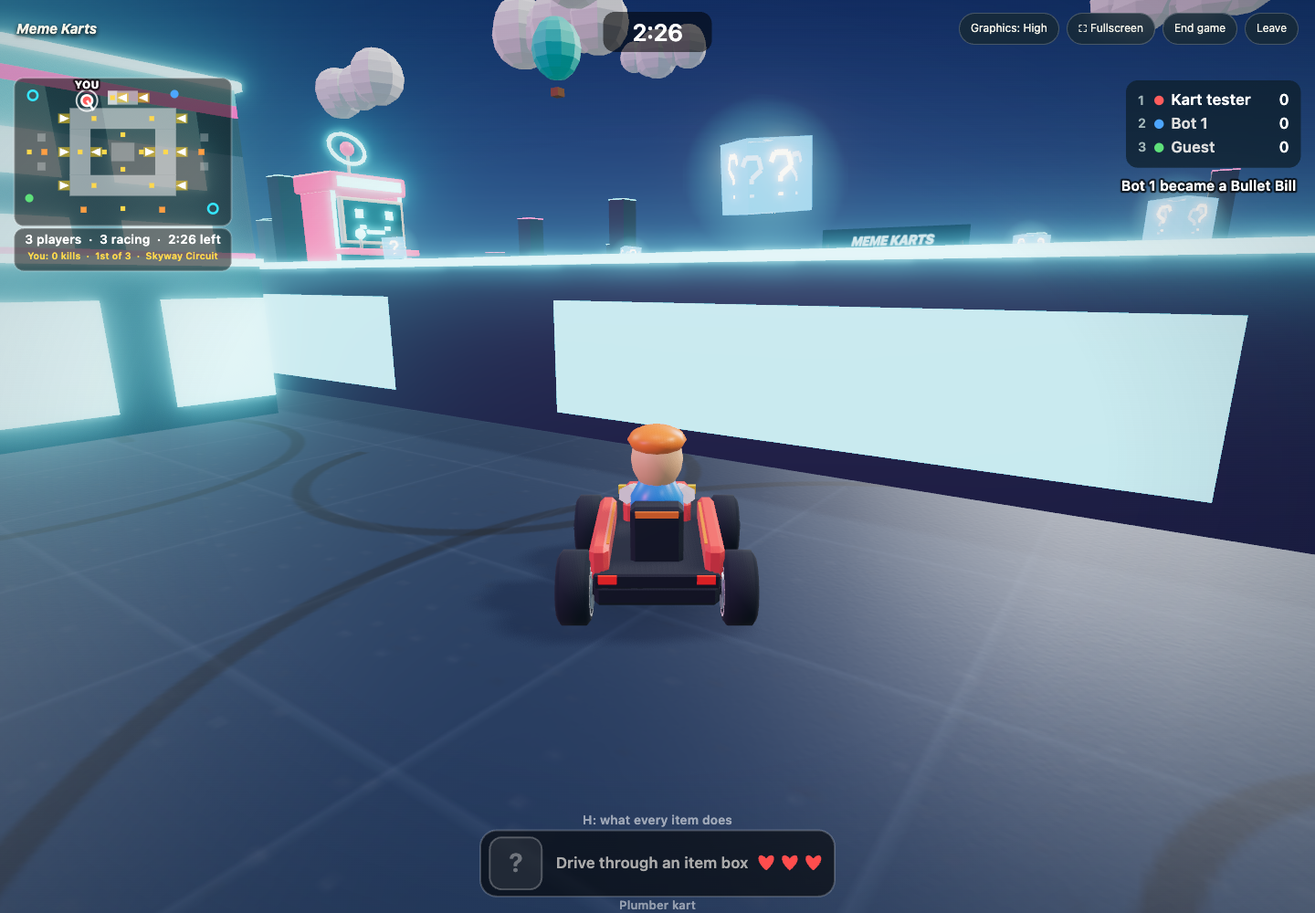
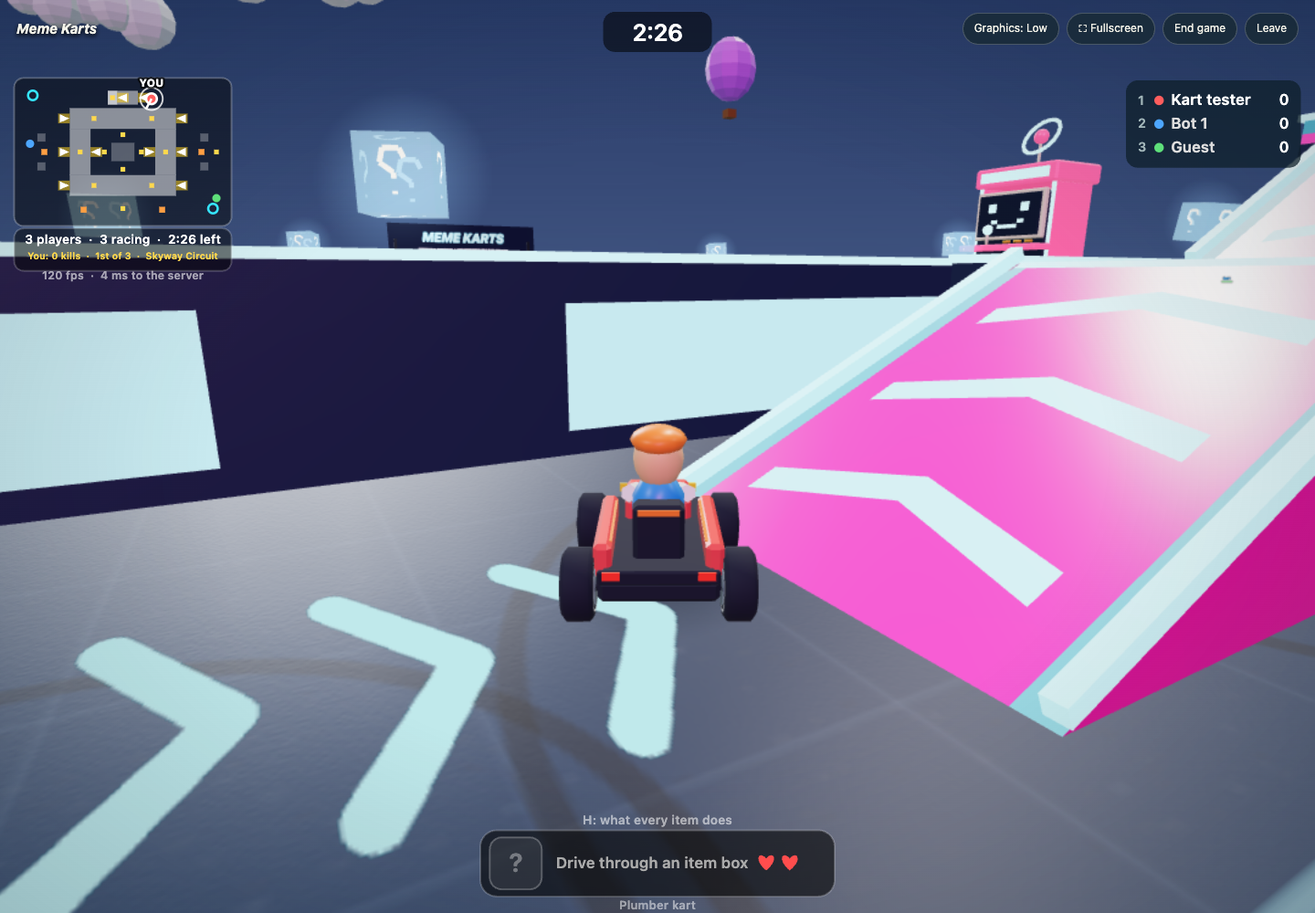
Karts server: tick counter and finer numbers in snapshots; shared terrain physics (Codex)
Snapshots carry tk (the server tick) for the clients' interpolation clock,
headings to 3 decimals and positions to 1, so turns no longer step by
half a degree. Codex moved the terrain collision into
public/memekarts-physics.js (stepGrounded, collideTerrain, fixed-size
substeps) with tools/kart-driving-check.js covering identical paths at
any frame rate, reverse steering, slow-frame walls and every ramp.

diff --git a/public/games/memekarts.js b/public/games/memekarts.js
@@ -1,5 +1,5 @@
 // Meme Karts client: 3D (Three.js) chase-cam renderer + 2D HUD drawn on the framework canvas on top.
-// The server is still a flat 900x600 top-down simulation; this file only changes how it LOOKS.
+// The server owns movement, collisions and height; local driving predicts the same shared physics.
 //
 // World mapping: game (x, y) -> world (X = x - OX, Y = up, Z = y - OZ). Heading a -> rotation.y = -a (models face +X).
 //
@@ -15,9 +15,11 @@ registerGame('memekarts', (G) => {
   // shows at once. Each server snapshot re-bases it: the server's state (with velocity) is replayed forward through the
   // keys you held since that snapshot was made (about half a round trip ago), then blended into the running prediction.
   // The server stays the authority; snapshots without velocity (an older server) switch prediction off entirely.
-  const PHYS = window.MEMEKARTS_PHYSICS; let myCtl = {}, ctlLog = [], rtt = 0.06, lastPing = -9, rttKnown = false, fpsAcc = 0, fpsN = 0, fpsShow = 0, pred = null, predMe = null; /* readout under the minimap: frames per second and the round trip */
+  const PHYS = window.MEMEKARTS_PHYSICS; let myCtl = {}, ctlLog = [], rtt = 0, lastPing = -9, rttKnown = false, fpsAcc = 0, fpsN = 0, fpsShow = 0, pred = null, predMe = null; /* readout under the minimap: frames per second and the round trip */
+  const pingSamples = [];
+  let predCorrection = null;
   const nowS = () => performance.now() / 1000;
-  window.__kartPred = () => (pred ? { x: pred.x, y: pred.y, a: pred.a } : null); /* test hook: tools read the predicted kart */
+  window.__kartPred = () => (pred ? { x: pred.x, y: pred.y, a: pred.a, el: pred.el, rtt } : null); /* test hook: tools read the predicted kart */
   // Everything drawn straight from snapshots is interpolated: the scene is shown INTERP_DELAY behind the newest snapshot,
   // gliding at a constant rate between the previous one and it, so a turn at 30 updates a second does not pulse.
   // (Easing toward each new snapshot instead jumped and slowed thirty times a second, which read as jerky turning.)
@@ -36,14 +38,28 @@ registerGame('memekarts', (G) => {
     if (al < 0) al = 0; return { x: pk.x + (k.x - pk.x) * al, y: pk.y + (k.y - pk.y) * al, a: lerpAngle(pk.a, k.a, al), el: (pk.el || 0) + ((k.el || 0) - (pk.el || 0)) * al }; }
   const ctlAt = (t) => { let c = {}; for (const e of ctlLog) { if (e.t <= t) c = e.ctl; else break; } return c; };
   const kartOpts = (me) => { const spd = (me.egg > 0 ? 0.5 : 1) * (me.mush ? 1.8 : me.bst ? 1.55 : 1) * (me.star ? 1.35 : 1) * (me.small ? 0.65 : 1) * (me.ink > 0 ? 0.92 : 1) * (me.mud ? (me.star || me.mush ? 0.8 : 0.5) : 1); return { maxF: 300 * spd, maxR: 150, accel: 420 * (me.mush || me.star || me.bst ? 1.8 : 1), turn: 3.2 }; };
-  function stepPred(p, h, me, o) { const px = p.x, py = p.y; PHYS.stepCar(p, h, o); PHYS.wallHit(p, 16, 0.4, OBST, MW, MH); if (window.MEMEKARTS_MAPS.surface(map, p.x, p.y) - (me.el || 0) > 10) { p.x = px; p.y = py; p.vx *= 0.5; p.vy *= 0.5; } } /* a deck wall or ramp side: stop, the server decides */
+  function stepPred(p, h, me, o) {
+    PHYS.stepGrounded(p, h, o, map, (x, y) => window.MEMEKARTS_MAPS.surface(map, x, y));
+  }
+  function correctPrediction(dt) {
+    if (!predCorrection || !pred) return;
+    const f = 1 - Math.exp(-12 * dt), px = pred.x, py = pred.y;
+    for (const key of ['x', 'y', 'a']) { pred[key] += predCorrection[key] * f; predCorrection[key] *= 1 - f; }
+    // Reconciliation must obey walls too, rather than blending a safe endpoint
+    // through a block or cutting diagonally across a raised deck's corner.
+    PHYS.wallHit(pred, 16, 0, OBST, MW, MH);
+    PHYS.collideTerrain(pred, px, py, 0, 0, (x, y) => window.MEMEKARTS_MAPS.surface(map, x, y));
+  }
   const NO_PRED = /[?&]nopred=1/.test(location.search); /* tests: draw your own kart from snapshots like everyone else */
   function rebase(me) { /* a snapshot arrived */
-    if (NO_PRED || !PHYS || !me || me.vx == null || me.dead || me.air > 0 || me.pit || me.aw || me.spin || (s.win && s.win !== G.me) || away) { pred = null; return; }
-    const now = nowS(), o = kartOpts(me), p = { x: me.x, y: me.y, a: me.a, vx: me.vx, vy: me.vy };
-    for (let t = now - Math.min(0.25, rtt / 2 + 0.017); t < now; t += 1 / 60) { p.ctl = ctlAt(t); stepPred(p, Math.min(1 / 60, now - t), me, o); }
-    if (pred && Math.hypot(pred.x - p.x, pred.y - p.y) < 40) { pred.x += (p.x - pred.x) * 0.25; pred.y += (p.y - pred.y) * 0.25; let da = p.a - pred.a; while (da > Math.PI) da -= 2 * Math.PI; while (da < -Math.PI) da += 2 * Math.PI; if (Math.abs(da) > 0.004) pred.a += da * 0.25; pred.vx = p.vx; pred.vy = p.vy; } /* tiny heading differences are rounding, not disagreement */ /* small disagreements (rounding, a nudge) are eased in */
-    else pred = p; /* a big one (a hit, a teleport): take the server's word */
+    if (NO_PRED || !PHYS?.stepGrounded || !me || me.vx == null || me.dead || me.air > 0 || me.pit || me.aw || me.spin || me.bill || (s.win && s.win !== G.me) || away) { pred = null; predCorrection = null; return; }
+    const now = nowS(), o = kartOpts(me), p = { x: me.x, y: me.y, a: me.a, vx: me.vx, vy: me.vy, el: me.el || 0 };
+    for (let t = now - Math.min(0.125, rtt / 2); t < now; t += 1 / 60) { p.ctl = ctlAt(t); stepPred(p, Math.min(1 / 60, now - t), me, o); }
+    if (pred && Math.hypot(pred.x - p.x, pred.y - p.y) < 40 && Math.abs(pred.el - p.el) < 12) {
+      const da = lerpAngle(pred.a, p.a, 1) - pred.a;
+      predCorrection = { x: p.x - pred.x, y: p.y - pred.y, a: Math.abs(da) > .004 ? da : 0 };
+      pred.vx = p.vx; pred.vy = p.vy;
+    } else { pred = p; predCorrection = null; } /* teleport, respawn or a large correction */
     predMe = me;
   }
   const HEARTS = 2; /* hearts per life, same as HEARTS in server/games/memekarts.js */
@@ -191,6 +207,7 @@ registerGame('memekarts', (G) => {
     // ---- Blender / GLB overrides ----
     const MODELS = {}; let assetsReady = false;
     fetch('/models/list').then((r) => r.json()).then((files) => {
+      files = files.filter(f => !/^fps_/i.test(f)); // Shooter arenas/figures are never used by this game.
       if (!files.length || !window.GLTFLoader) { assetsReady = true; return; }
       const loader = new window.GLTFLoader(); let left = files.length;
       const done = () => { if (--left <= 0) assetsReady = true; };
@@ -627,18 +644,32 @@ registerGame('memekarts', (G) => {
       });
     }
     const views = new Map();
-    window.__kartView = () => { const v = views.get(G.me); return v ? { x: v.x, y: v.y, a: v.a } : null; }; /* test hook: what is drawn for your kart */
+    window.__kartView = () => { const v = views.get(G.me); return v ? { x: v.x, y: v.y, a: v.a, el: v.el } : null; }; /* test hook: what is drawn for your kart */
     function updateKarts(dt) {
       const seen = new Set();
-      if (time - lastPing > 2 && G.socket && G.socket.emit) { lastPing = time; const t0 = performance.now(); try { G.socket.emit('ping', {}, () => { rtt = rtt * 0.7 + ((performance.now() - t0) / 1000) * 0.3; rttKnown = true; }); } catch (e) { /* transport without acks */ } }
-      advanceClock(dt); if (pred) { pred.ctl = myCtl; stepPred(pred, dt, predMe, kartOpts(predMe)); } const predicted = pred; const prevById = prevS ? new Map(prevS.karts.map((q) => [q.id, q])) : null;
+      if (time > 3 && time - lastPing > 1 && G.socket && G.socket.emit) {
+        lastPing = time; const t0 = performance.now();
+        try { G.socket.emit('ping', {}, () => {
+          const sample = (performance.now() - t0) / 1000;
+          if (!Number.isFinite(sample) || sample < 0 || sample > 2) return;
+          pingSamples.push(sample); if (pingSamples.length > 8) pingSamples.shift();
+          // Shader compilation and busy frames delay callbacks too. Do not turn
+          // that CPU delay into fictitious network latency and over-predict turns.
+          const estimate = Math.min(...pingSamples);
+          rtt = rttKnown ? rtt + (estimate - rtt) * .5 : estimate; rttKnown = true;
+        }); } catch (e) { /* transport without acks */ }
+      }
+      advanceClock(dt);
+      if (pred && nowS() - curT < .25) { pred.ctl = myCtl; stepPred(pred, dt, predMe, kartOpts(predMe)); correctPrediction(dt); }
+      const predicted = pred; const prevById = prevS ? new Map(prevS.karts.map((q) => [q.id, q])) : null;
       for (const k of s.karts) {
         seen.add(k.id); const p = G.player(k.id);
         let v = views.get(k.id);
         if (!v) { v = { g: buildKart(k.v, p.color), x: k.x, y: k.y, a: k.a, sc: 1, lookKey: '', spd: 0, roll: 0, pitch:0, steer:0, airTime:0, landingAge:2 }; views.set(k.id, v); scene.add(v.g); }
         if (Math.hypot(k.x - v.x, k.y - v.y) > 130) { v.x = k.x; v.y = k.y; v.a = k.a; }
         const mine = k.id === G.me, px = v.x, py = v.y, pa = v.a, f = 1 - Math.exp(-30 * dt), tg = (mine && predicted) || interp(k, prevById); /* your own kart: its per-frame prediction; everyone else (and you without prediction): the interpolated snapshot. Both are already smooth, so the follow is tight */
-        v.x += (tg.x - v.x) * f; v.y += (tg.y - v.y) * f; v.a = lerpAngle(v.a, tg.a, 1 - Math.exp(-30 * dt));
+        if (mine && predicted) { v.x = tg.x; v.y = tg.y; v.a = tg.a; }
+        else { v.x += (tg.x - v.x) * f; v.y += (tg.y - v.y) * f; v.a = lerpAngle(v.a, tg.a, f); }
         const spd = Math.hypot(v.x - px, v.y - py) / Math.max(dt, 0.001), oldSpeed=v.spd;v.spd=damp(v.spd,spd,13,dt);
         const fwd = Math.sign((v.x - px) * Math.cos(v.a) + (v.y - py) * Math.sin(v.a)) || 1;
         const av = (((v.a - pa) % (Math.PI * 2)) + Math.PI * 3) % (Math.PI * 2) - Math.PI;
@@ -651,7 +682,7 @@ registerGame('memekarts', (G) => {
         if(previousAir>0&&v.airTime===0)v.landingAge=0;
         v.wasAir=k.air>0;v.landingAge+=dt;
         const air = v.airTime > 0 ? Math.sin((1 - v.airTime / 1.2) * Math.PI) * 75 : 0;
-        v.el = (v.el ?? (k.el || 0)) + ((k.el || 0) - (v.el ?? 0)) * Math.min(1, dt * 16); /* height from the server, smoothed */
+        v.el = mine && predicted ? predicted.el : damp(v.el ?? (tg.el || 0), tg.el || 0, 16, dt);
         v.h = air + v.el;
         const fx = Math.cos(v.a) * 18, fy = Math.sin(v.a) * 18, slope = air > 0 ? 0 : Math.atan2(surfaceAt(v.x + fx, v.y + fy) - surfaceAt(v.x - fx, v.y - fy), 36);
         v.tilt = (v.tilt || 0) + ((Math.abs(slope) < 0.6 ? slope : 0) - (v.tilt || 0)) * Math.min(1, dt * 12); /* nose up going up a ramp, down coming off it */
@@ -755,7 +786,7 @@ registerGame('memekarts', (G) => {
       let fov = portrait?82:62;
       if (v && k && !k.dead && !k.aw) { /* away: the kart is parked off the map, so the camera orbits the arena instead */
         const lookBack = G.keys.has('c'); /* hold C to look behind you */
-        camA = lerpAngle(camA, v.a + (lookBack ? Math.PI : 0), 1 - Math.exp(-(lookBack || wasBack ? 18 : k.spin ? 1.2 : 6.5) * dt)); wasBack = lookBack;
+        camA = lerpAngle(camA, v.a + (lookBack ? Math.PI : 0), 1 - Math.exp(-(lookBack || wasBack ? 18 : k.spin ? 1.2 : 10) * dt)); wasBack = lookBack;
         const dx = Math.cos(camA), dz = Math.sin(camA), X = v.x - OX, Z = v.y - OZ, h = v.h || 0;
         // keep the camera inside the arena walls; when it gets squeezed against one, rise up and look down instead
         const distance=portrait?110:84;

diff --git a/server/games/memekarts.js b/server/games/memekarts.js
@@ -16,7 +16,7 @@ const MATCH = 150;
 const clamp = (v, a, b) => Math.max(a, Math.min(b, v));
 
 // ---- shared car physics: public/memekarts-physics.js (the browser runs the same step to predict your own kart) ----
-const { stepCar, collideBounds, collideRect, wallHit } = require('../../public/memekarts-physics.js');
+const { stepGrounded, moveGrounded, collideTerrain, collideBounds, collideRect, wallHit } = require('../../public/memekarts-physics.js');
 function circleHit(a, b, ra, rb, rest) {
   const dx = b.x - a.x, dy = b.y - a.y, d = Math.hypot(dx, dy);
   if (d >= ra + rb || d === 0) return false;
@@ -236,7 +236,7 @@ module.exports = {
     const SPAWNS = map.spawns, BOXES = map.boxes;
     const W = map.w || 900, H = map.h || 600, CX = W / 2, CY = H / 2;
     const hitWall = (o, r, rest) => wallHit(o, r, rest, map.obstacles, W, H);
-    const karts = new Map();
+    const karts = new Map(); let tickN = 0; /* snapshot tick counter, the clients' interpolation clock */
     const ents = []; let eid = 0;
     // ---- height: decks and ramps (see public/memekarts-maps.js). `el` is how high a kart or item is standing. ----
     const surf = (x, y) => MAPS.surface(map, x, y), STEP = 10, GRADE = 0.72; // a rise of more than STEP that is steeper than GRADE (rise per unit travelled) is a wall; a drop of more than STEP is a fall. Ramps climb at 0.52 at most.
@@ -244,19 +244,8 @@ module.exports = {
     let elapsed = 0;
     // Keeps a kart on the ground it can reach after it moved from (px, py). Returns true when it ran into a deck or ramp side.
     function terrain(k, px, py, dt, rest) {
-      if (surf(px, py) - k.el > STEP) { k.el = surf(k.x, k.y); return false; } // shoved inside a deck by a collision: pop up onto it
-      const mx = k.x - px, my = k.y - py, ml = Math.hypot(mx, my) || 1, lx = (mx / ml) * R, ly = (my / ml) * R; /* the kart's front edge, so its nose stops at a ramp side instead of sinking in */
-      const wall = (x, y, ox, oy) => { const d = Math.hypot(x - px, y - py), rise = surf(x, y) - k.el, rise2 = surf(x + ox, y + oy) - k.el; return (rise > STEP && rise > d * GRADE) || (rise2 > STEP && rise2 > (d + Math.hypot(ox, oy)) * GRADE); };
-      let hit = false;
-      if (wall(k.x, k.y, lx, ly)) {
-        hit = true;
-        if (!wall(k.x, py, lx, 0)) { k.y = py; k.vy = -k.vy * rest; }
-        else if (!wall(px, k.y, 0, ly)) { k.x = px; k.vx = -k.vx * rest; }
-        else { k.x = px; k.y = py; k.vx = -k.vx * rest; k.vy = -k.vy * rest; }
-      }
-      const h = surf(k.x, k.y);
-      if (k.el - h > STEP) { k.el = Math.max(h, k.el - 300 * dt); if (!k.falling) { k.falling = true; } } // drove off an edge: fall
-      else { if (k.falling) { k.falling = false; api.emit('g:event', { type: 'land', x: Math.round(k.x), y: Math.round(k.y), drop: 1 }); } k.el = h; }
+      const falling = k.falling, hit = collideTerrain(k, px, py, dt, rest, surf, R);
+      if (falling && !k.falling) api.emit('g:event', { type: 'land', x: Math.round(k.x), y: Math.round(k.y), drop: 1 });
       return hit;
     }
     // the same idea for shells and other things that slide along the ground: decks and ramp sides bounce them, edges drop them
@@ -346,6 +335,7 @@ module.exports = {
         }
       },
       tick(dt) {
+        tickN++;
         if (over && celebT <= 0) return;
         if (over) { celebT -= dt; for (const k of karts.values()) if (k.id !== winnerId) { k.ctl = {}; k.vx = 0; k.vy = 0; } } /* everyone but the winner is frozen for the victory lap */
         else { t -= dt; elapsed += dt; if (t <= 0) { t = 0; finish(); } }
@@ -388,17 +378,16 @@ module.exports = {
             k.bill -= dt; if (k.bill <= 0) { k.bill = 0; k.inv = Math.max(k.inv, 0.8); }
             let best = null, bd = 1e9; for (const o of karts.values()) { if (o === k || o.dead || o.ghost > 0) continue; const d = Math.hypot(o.x - k.x, o.y - k.y); if (d < bd) { bd = d; best = o; } }
             if (best) { const want = Math.atan2(best.y - k.y, best.x - k.x); const da = ((want - k.a + Math.PI * 3) % (Math.PI * 2)) - Math.PI; k.a += clamp(da, -2.2 * dt, 2.2 * dt); }
-            const bx0 = k.x, by0 = k.y; k.vx = Math.cos(k.a) * 520; k.vy = Math.sin(k.a) * 520; k.x += k.vx * dt; k.y += k.vy * dt;
-            if (hitWall(k, R, 1) | terrain(k, bx0, by0, dt, 1)) k.a = Math.atan2(k.vy, k.vx);
+            k.vx = Math.cos(k.a) * 520; k.vy = Math.sin(k.a) * 520;
+            if (moveGrounded(k, dt, map, surf, 1, R)) k.a = Math.atan2(k.vy, k.vx);
             for (const o of karts.values()) if (o !== k && !o.dead && !o.air && o.ramCd <= 0 && Math.abs(o.el - k.el) < 22 && Math.hypot(o.x - k.x, o.y - k.y) < R * 2 + 4) { o.ramCd = 0.8; g.damage(o, 2, k.id, 'Bullet Bill'); }
             continue;
           }
           if (k.spin > 0) k.a += 10 * dt;
           k.mud = k.el < 6 && zones.some((z) => k.x > z.x && k.x < z.x + z.w && k.y > z.y && k.y < z.y + z.h); // quicksand / mud zones
           const spd = (k.egg > 0 ? 0.5 : 1) * (k.mush > 0 ? 1.8 : k.boost > 0 ? 1.55 : 1) * (k.star > 0 ? 1.35 : 1) * (k.small > 0 ? 0.65 : 1) * (k.ink > 0 ? 0.92 : 1) * (k.mud ? (k.star > 0 || k.mush > 0 ? 0.8 : 0.5) : 1);
-          const px = k.x, py = k.y;
-          stepCar(k, dt, { maxF: 300 * spd, maxR: 150, accel: 420 * (k.mush > 0 || k.star > 0 || k.boost > 0 ? 1.8 : 1), turn: 3.2 });
-          hitWall(k, R, 0.4); terrain(k, px, py, dt, 0.3);
+          const movement = stepGrounded(k, dt, { maxF: 300 * spd, maxR: 150, accel: 420 * (k.mush > 0 || k.star > 0 || k.boost > 0 ? 1.8 : 1), turn: 3.2 }, map, surf, R);
+          if (movement.landed) api.emit('g:event', { type: 'land', x: Math.round(k.x), y: Math.round(k.y), drop: 1 });
         }
         for(const k of karts.values()) if(!k.dead&&!k.air&&!k.pitFall&&k.el<=0&&MAPS.isPit(map,k.x,k.y)) {
           k.pitFall=true; k.vx=k.vy=0; k.inv=0;
@@ -406,7 +395,10 @@ module.exports = {
         const live = [...karts.values()].filter((k) => !k.dead && !k.away && !k.pitFall && !k.air && !k.ghost && !k.bill);
         for (let i = 0; i < live.length; i++) for (let j = i + 1; j < live.length; j++) {
           const a = live[i], b = live[j];
+          const ax = a.x, ay = a.y, bx = b.x, by = b.y;
           if (Math.abs(a.el - b.el) < 22 && circleHit(a, b, R, R, 0.5)) { // karts on different levels pass over each other
+            hitWall(a, R, 0); terrain(a, ax, ay, 0, 0);
+            hitWall(b, R, 0); terrain(b, bx, by, 0, 0);
             if (a.star > 0 && b.ramCd <= 0) { b.ramCd = 0.8; g.damage(b, 3, a.id, 'Star'); }
             else if (a.mush > 0 && b.ramCd <= 0) { b.ramCd = 0.6; g.damage(b, 1, a.id, 'Boost mushroom'); }
             if (b.star > 0 && a.ramCd <= 0) { a.ramCd = 0.8; g.damage(a, 3, b.id, 'Star'); }
@@ -464,7 +456,8 @@ module.exports = {
         t: Math.ceil(t),
         mapId: map.id,
         haz: movers.length ? movers.map((m) => [Math.round(m.x), Math.round(m.y)]) : undefined, // live positions of the map's moving hazards
-        karts: [...karts.values()].map((k) => ({ id: k.id, x: Math.round(k.x), y: Math.round(k.y), vx: Math.round(k.vx), vy: Math.round(k.vy), el: Math.round(k.el), a: +k.a.toFixed(2), hp: +Math.max(0, k.hp).toFixed(2), bst: k.boost > 0 ? 1 : 0, streak: k.streak, weapon: k.weapon, egg: +k.egg.toFixed(1), air: +k.air.toFixed(2), spin: k.spin > 0 ? 1 : 0, mush: k.mush > 0 ? 1 : 0, inv: k.inv > 0 ? 1 : 0, mud: k.mud ? 1 : 0, dead: k.dead > 0 ? 1 : 0, pit: k.pitFall ? 1 : 0, kills: k.kills, v: k.v, star: k.star > 0 ? 1 : 0, ghost: k.ghost > 0 ? 1 : 0, small: k.small > 0 ? 1 : 0, bill: k.bill > 0 ? 1 : 0, ink: +k.ink.toFixed(1), pie: +(k.pie || 0).toFixed(1), aw: k.away ? 1 : undefined })), win: over ? winnerId : undefined,
+        tk: tickN,
+        karts: [...karts.values()].map((k) => ({ id: k.id, x: +k.x.toFixed(1), y: +k.y.toFixed(1), vx: Math.round(k.vx), vy: Math.round(k.vy), el: Math.round(k.el), a: +k.a.toFixed(3), hp: +Math.max(0, k.hp).toFixed(2), bst: k.boost > 0 ? 1 : 0, streak: k.streak, weapon: k.weapon, egg: +k.egg.toFixed(1), air: +k.air.toFixed(2), spin: k.spin > 0 ? 1 : 0, mush: k.mush > 0 ? 1 : 0, inv: k.inv > 0 ? 1 : 0, mud: k.mud ? 1 : 0, dead: k.dead > 0 ? 1 : 0, pit: k.pitFall ? 1 : 0, kills: k.kills, v: k.v, star: k.star > 0 ? 1 : 0, ghost: k.ghost > 0 ? 1 : 0, small: k.small > 0 ? 1 : 0, bill: k.bill > 0 ? 1 : 0, ink: +k.ink.toFixed(1), pie: +(k.pie || 0).toFixed(1), aw: k.away ? 1 : undefined })), win: over ? winnerId : undefined,
         ents: ents.filter((e) => e.kind !== 'burst' && e.kind !== 'gunfire').map((e) => ({ id: e.id, k: e.kind, x: Math.round(e.x), y: Math.round(e.y), el: Math.round(e.el || 0), z: Math.round(e.z || 0), a: +(e.a || 0).toFixed(2), o: e.owner, f: +e.life.toFixed(1) })),
         boxes: boxes.map((b) => (b.t > 0 ? 0 : 1)),
       };

diff --git a/public/memekarts-physics.js b/public/memekarts-physics.js
@@ -4,7 +4,7 @@
   const M = 20; // wall margin (the same M as server/games/memekarts.js)
   const clamp = (v, a, b) => Math.max(a, Math.min(b, v));
   // ---- shared car physics ----------------------------------------------------
-  function stepCar(c, dt, o) {
+  function integrateCar(c, dt, o) {
     const cos = Math.cos(c.a), sin = Math.sin(c.a);
     let fwd = c.vx * cos + c.vy * sin;
     let lat = -c.vx * sin + c.vy * cos;
@@ -14,7 +14,7 @@
       if (ctl.down && fwd > -o.maxR) fwd = Math.max(-o.maxR, fwd - o.accel * dt);
       if (o.thrust && fwd < o.maxF) fwd = Math.min(o.maxF, fwd + o.thrust * dt);
       const steer = (ctl.right ? 1 : 0) - (ctl.left ? 1 : 0);
-      c.a += steer * o.turn * Math.min(1, Math.abs(fwd) / 80) * dt;
+      c.a += steer * o.turn * clamp(fwd / 80, -1, 1) * dt;
     }
     fwd *= Math.pow(0.985, 60 * dt);
     if (!ctl.up && !ctl.down && !o.thrust) fwd *= Math.pow(0.6, dt);
@@ -22,6 +22,60 @@
     const c2 = Math.cos(c.a), s2 = Math.sin(c.a);
     c.vx = c2 * fwd - s2 * lat; c.vy = s2 * fwd + c2 * lat;
     c.x += c.vx * dt; c.y += c.vy * dt;
+  }
+  // Small, identical steps on both peers: a slow frame must not change handling
+  // or jump over a thin obstacle. Never integrate an unbounded catch-up interval.
+  function substeps(dt, fn) {
+    if (!Number.isFinite(dt) || dt <= 0) return;
+    const duration = Math.min(dt, .25), count = Math.ceil(duration * 120 - 1e-9);
+    for (let i = 0; i < count; i++) fn(duration / count);
+  }
+  function stepCar(c, dt, o) { substeps(dt, h => integrateCar(c, h, o)); }
+
+  // Shared height collision, including the nose, ramp grades, sliding and falls.
+  // `surface` is supplied by memekarts-maps on both the server and client.
+  function collideTerrain(k, px, py, dt, rest, surface, radius = 16) {
+    const STEP = 10, GRADE = .72;
+    k.el = k.el || 0;
+    if (surface(px, py) - k.el > STEP) { k.el = surface(k.x, k.y); return false; }
+    const mx = k.x - px, my = k.y - py, ml = Math.hypot(mx, my) || 1;
+    const lx = mx / ml * radius, ly = my / ml * radius;
+    const wall = (x, y, ox, oy) => {
+      const d = Math.hypot(x - px, y - py), rise = surface(x, y) - k.el, rise2 = surface(x + ox, y + oy) - k.el;
+      return (rise > STEP && rise > d * GRADE) || (rise2 > STEP && rise2 > (d + Math.hypot(ox, oy)) * GRADE);
+    };
+    let hit = false;
+    if (wall(k.x, k.y, lx, ly)) {
+      hit = true;
+      if (!wall(k.x, py, lx, 0)) { k.y = py; k.vy = -k.vy * rest; }
+      else if (!wall(px, k.y, 0, ly)) { k.x = px; k.vx = -k.vx * rest; }
+      else { k.x = px; k.y = py; k.vx = -k.vx * rest; k.vy = -k.vy * rest; }
+    }
+    const height = surface(k.x, k.y);
+    if (k.el - height > STEP) { k.el = Math.max(height, k.el - 300 * dt); k.falling = true; }
+    else { k.el = height; k.falling = false; }
+    return hit;
+  }
+  function stepGrounded(k, dt, options, map, surface, radius = 16) {
+    let hit = false, landed = false;
+    substeps(dt, h => {
+      const px = k.x, py = k.y, falling = k.falling;
+      integrateCar(k, h, options);
+      if (wallHit(k, radius, .4, map.obstacles, map.w, map.h)) hit = true;
+      if (collideTerrain(k, px, py, h, .3, surface, radius)) hit = true;
+      if (falling && !k.falling) landed = true;
+    });
+    return { hit, landed };
+  }
+  function moveGrounded(k, dt, map, surface, rest = 1, radius = 16) {
+    let hit = false;
+    substeps(dt, h => {
+      const px = k.x, py = k.y;
+      k.x += k.vx * h; k.y += k.vy * h;
+      if (wallHit(k, radius, rest, map.obstacles, map.w, map.h)) hit = true;
+      if (collideTerrain(k, px, py, h, rest, surface, radius)) hit = true;
+    });
+    return hit;
   }
   function collideBounds(o, r, rest, W, H) {
     let hit = false;
@@ -46,5 +100,5 @@
     return true;
   }
   function wallHit(o, r, rest, obstacles, W = 900, H = 600) { let h = collideBounds(o, r, rest, W, H); for (const rc of obstacles) if (collideRect(o, r, rc, rest)) h = true; return h; }
-  return { M, stepCar, collideBounds, collideRect, wallHit };
+  return { M, stepCar, stepGrounded, moveGrounded, collideTerrain, collideBounds, collideRect, wallHit };
 });

diff --git a/tools/kart-height.js b/tools/kart-height.js
@@ -6,9 +6,9 @@ function world(mapId) {
   const players = ['a', 'b'].map((id) => ({ id, name: id, color: '#fff' })), w = { ev: [], state: null };
   const api = { memory: { __fast: 600, memekartsMap: mapId }, room: { bots: new Map([['x', 1]]) }, players: () => players, player: (id) => players.find((p) => p.id === id),
     emit(e, d) { if (e === 'g:event') w.ev.push(d); if (e === 'g:state') w.state = d; }, to() {}, after() {}, every() {}, clear() {}, end() {} };
-  w.game = m.create(api); w.tick = (n = 1) => { for (let i = 0; i < n; i++) w.game.tick(1 / 30); }; w.k = (id) => w.state.karts.find((k) => k.id === id);
+  w.game = m.create(api); w.tick = (n = 1, dt = 1 / 30) => { for (let i = 0; i < n; i++) w.game.tick(dt); }; w.k = (id) => w.state.karts.find((k) => k.id === id);
   w.tp = (id, x, y, a) => { w.game.onInput(id, { type: 'tp', x, y, a }); w.tick(); };
-  w.drive = (id, n, ctl = { up: true }) => { w.game.onInput(id, Object.assign({ type: 'ctl', up: false, down: false, left: false, right: false }, ctl)); w.tick(n); };
+  w.drive = (id, n, ctl = { up: true }, dt = 1 / 30) => { w.game.onInput(id, Object.assign({ type: 'ctl', up: false, down: false, left: false, right: false }, ctl)); w.tick(n, dt); };
   w.tick(2); return w;
 }
 for (const map of MAPS) {
@@ -21,7 +21,9 @@ for (const map of MAPS) {
   { const DV = { N: [0, -1], S: [0, 1], E: [1, 0], W: [-1, 0] }, r2 = map.ramps.find((r) => r.z0), t2 = map.decks.find((d) => d.z), base = map.decks.find((d) => !d.z && t2.x >= d.x && t2.x + t2.w <= d.x + d.w && t2.y >= d.y && t2.y + t2.h <= d.y + d.h);
     const r1 = map.ramps.find((r) => { if (r.z0) return false; const v = DV[r.dir], hx = r.x + r.w / 2 + v[0] * (r.w / 2 + 3), hy = r.y + r.h / 2 + v[1] * (r.h / 2 + 3); return hx >= base.x && hx <= base.x + base.w && hy >= base.y && hy <= base.y + base.h; }), dd = DV[r1.dir];
     const t = world(map.id); t.tp('b', 60, 60, 0); t.tp('a', r1.x + r1.w / 2 - dd[0] * 130, r1.y + r1.h / 2 - dd[1] * 130, Math.atan2(dd[1], dd[0]));
-    let hi = 0, onTier1 = false, fellFrom = 0; for (let i = 0; i < 150; i++) { t.drive('a', 1); const k = t.k('a'); if (k.el === MAPS.DECK_Z) onTier1 = true; if (k.el > hi) hi = k.el; if (hi === MAPS.TOWER_Z && k.el < MAPS.TOWER_Z) { fellFrom = MAPS.TOWER_Z; } if (fellFrom && k.el === 0 && MAPS.surface(map, k.x, k.y) === 0) break; }
+    // Sample every physics substep: Canyon's short tier-one landing can lie
+    // entirely between two 30 Hz snapshots at full speed.
+    let hi = 0, onTier1 = false, fellFrom = 0; for (let i = 0; i < 600; i++) { t.drive('a', 1, { up: true }, 1 / 120); const k = t.k('a'); if (k.el === MAPS.DECK_Z) onTier1 = true; if (k.el > hi) hi = k.el; if (hi === MAPS.TOWER_Z && k.el < MAPS.TOWER_Z) { fellFrom = MAPS.TOWER_Z; } if (fellFrom && k.el === 0 && MAPS.surface(map, k.x, k.y) === 0) break; }
     ok(`${map.id}: the sky tower: floor, first deck, then the second ramp up to ${MAPS.TOWER_Z}`, onTier1 && hi === MAPS.TOWER_Z, `highest ${hi}, via tier 1: ${onTier1}`);
     ok(`${map.id}: ...and driving off the top drops all the way to the floor`, fellFrom === MAPS.TOWER_Z && t.k('a').el === 0, 'ended at height ' + t.k('a').el);
     const bx = map.boxes.find(([x, y]) => MAPS.surface(map, x, y) === MAPS.TOWER_Z); ok(`${map.id}: there is an item box on top of the tower`, !!bx);

diff --git a/tools/kart-driving-check.js b/tools/kart-driving-check.js
@@ -1,0 +1,54 @@
+// Deterministic handling, slow-frame collision, and height prediction regressions.
+const assert = require('node:assert/strict');
+const P = require('../public/memekarts-physics');
+const MAPS = require('../public/memekarts-maps');
+const def = require('../server/games/memekarts');
+const options = {maxF:300,maxR:150,accel:420,turn:3.2};
+const empty = {w:1800,h:1200,obstacles:[]};
+const kart = (extra={}) => ({x:900,y:600,a:0,vx:0,vy:0,el:0,ctl:{up:true,right:true},...extra});
+const baseline = kart();
+for(let i=0;i<240;i++)P.stepGrounded(baseline,1/120,options,empty,()=>0);
+for(const fps of [10,15,30,60,120]) {
+  const k=kart();for(let i=0;i<fps*2;i++)P.stepGrounded(k,1/fps,options,empty,()=>0);
+  assert(Math.hypot(k.x-baseline.x,k.y-baseline.y)<1e-6,`${fps} fps changed turning path`);
+  assert(Math.abs(k.a-baseline.a)<1e-7,`${fps} fps changed heading`);
+}
+for(const dt of [1/120,1/30,.1,.25])for(const reverse of [false,true]) {
+  const k=kart({x:reverse?150:70,y:100,a:reverse?Math.PI:0,vx:reverse?-729:729,ctl:{up:true}});
+  const map={w:900,h:600,obstacles:[{x:100,y:50,w:10,h:100}]};
+  for(let t=0;t<.5;t+=dt) {
+    P.stepGrounded(k,dt,{...options,maxF:729,accel:756},map,()=>0);
+    assert(reverse?k.x>=126-1e-6:k.x<=84+1e-6,'Boosted kart tunneled through a thin block');
+  }
+}
+for(const right of [true,false]) {
+  const k=kart({vx:-100,ctl:{down:true,right,left:!right}});
+  P.stepCar(k,.1,options);assert(right?k.a<0:k.a>0,'Reverse steering is inverted');
+}
+{
+  const k=kart({x:70,y:100,vx:520,ctl:{}}),map={w:900,h:600,obstacles:[{x:100,y:50,w:10,h:100}]};
+  assert(P.moveGrounded(k,.1,map,()=>0));assert(k.x<=84&&k.vx<0,'Autopilot tunnels through thin block');
+}
+// Both ends run the same slope/collision integration, including consecutive tower ramps.
+for(const map of MAPS)for(const rp of map.ramps) {
+  const d={N:[0,-1],S:[0,1],E:[1,0],W:[-1,0]}[rp.dir];
+  const distance=(d[0]?rp.w:rp.h)/2+18;
+  const x=rp.x+rp.w/2-d[0]*distance,y=rp.y+rp.h/2-d[1]*distance;
+  const surface=(x,y)=>MAPS.surface(map,x,y);
+  const a=kart({x,y,a:Math.atan2(d[1],d[0]),el:surface(x,y),vx:d[0]*220,vy:d[1]*220,ctl:{up:true}}),b=structuredClone(a);
+  for(let i=0;i<90;i++) {
+    P.stepGrounded(a,1/30,options,map,surface);
+    for(let n=0;n<4;n++)P.stepGrounded(b,1/120,options,map,surface);
+    assert(Math.hypot(a.x-b.x,a.y-b.y)<1e-6&&Math.abs(a.el-b.el)<1e-6,`${map.id} ramp prediction diverges`);
+  }
+}
+// Exercise the actual server tick, not only the shared helper.
+{
+  const players=['a','b'].map(id=>({id,name:id,color:'#fff'}));
+  const game=def.create({memory:{memekartsMap:'stadium'},room:{bots:new Map()},players:()=>players,player:id=>players.find(p=>p.id===id),emit(){},to(){},after(){},every(){},clear(){},end(){}});
+  const world=game.__state(),k=world.karts.get('a'),map=MAPS[0],block=map.obstacles[0];
+  Object.assign(world.karts.get('b'),{x:60,y:60});
+  Object.assign(k,{x:block.x-45,y:block.y+block.h/2,a:0,vx:729,vy:0,el:0,mush:10,star:10,ctl:{up:true}});
+  for(let i=0;i<8;i++){game.tick(.1);assert(k.x<=block.x-16+1e-6,'Server allowed boosted wall crossing');}
+}
+console.log('Kart driving: identical paths at 10/15/30/60/120 fps, reverse steering, slow-frame walls, every ramp and server collisions: PASS');

diff --git a/tools/kart-pits.js b/tools/kart-pits.js
@@ -15,7 +15,7 @@ for(const kills of [0,3,-2])for(const power of ['none','star','ghost','bill','in
   w.tick(25);assert(w.k.dead>0,power+' must not bypass pit');assert.equal(w.k.kills,kills-1);assert.equal(w.k.deaths,1);assert.equal(w.other.kills,0);
   assert.equal(w.events.filter(e=>e.type==='pit').length,1);assert.equal(w.events.filter(e=>e.type==='kill').length,0);
   assert.equal(w.k.weapon,null);assert.equal(w.k.streak,0);w.tick(25);assert.equal(w.k.kills,kills-1,'one penalty per fall');
-  w.tick(70);assert.equal(w.k.dead,0);assert.equal(w.k.pitFall,false);assert.equal(w.k.hp,3);assert(w.k.inv>0);assert(!maps.isPit(map,w.k.x,w.k.y));
+  w.tick(70);assert.equal(w.k.dead,0);assert.equal(w.k.pitFall,false);assert.equal(w.k.hp,2);assert(w.k.inv>0);assert(!maps.isPit(map,w.k.x,w.k.y));
 }
 {
   const w=world();Object.assign(w.k,{x:900,y:360,el:0,a:Math.PI/2,inv:0});w.game.onInput('a',{type:'ctl',up:true});w.tick(50);
@@ -25,7 +25,9 @@ for(const kills of [0,3,-2])for(const power of ['none','star','ghost','bill','in
   const w=world();Object.assign(w.k,{x:900,y:450,el:0,air:1.2,avx:0,avy:0});w.tick(20);assert.equal(w.k.kills,0);assert(!w.k.pitFall,'airborne karts must not fall early');w.tick(40);assert.equal(w.k.kills,-1,'landing in the pit counts');
 }
 {
-  const w=world();Object.assign(w.k,{x:900,y:300,el:0,air:1.2,avx:0,avy:250});w.tick(38);assert.equal(w.k.kills,0);assert.equal(w.k.el,48,'jump clears pit onto bridge');assert(!w.k.pitFall);
+  // Launch from the lip: arrive at the bridge while the arc is still above 48.
+  // The old y=300 / speed=250 setup hit its side during descent, below the deck.
+  const w=world();Object.assign(w.k,{x:900,y:360,el:0,air:1.2,avx:0,avy:220});w.tick(38);assert.equal(w.k.kills,0);assert.equal(w.k.el,48,'jump clears pit onto bridge');assert(!w.k.pitFall);
 }
 {
   const w=world();Object.assign(w.k,{x:540,y:600,el:48,a:0});w.game.onInput('a',{type:'ctl',up:true});w.tick(95);assert.equal(w.k.kills,0);assert(!w.k.pitFall,'bridge is safe');
